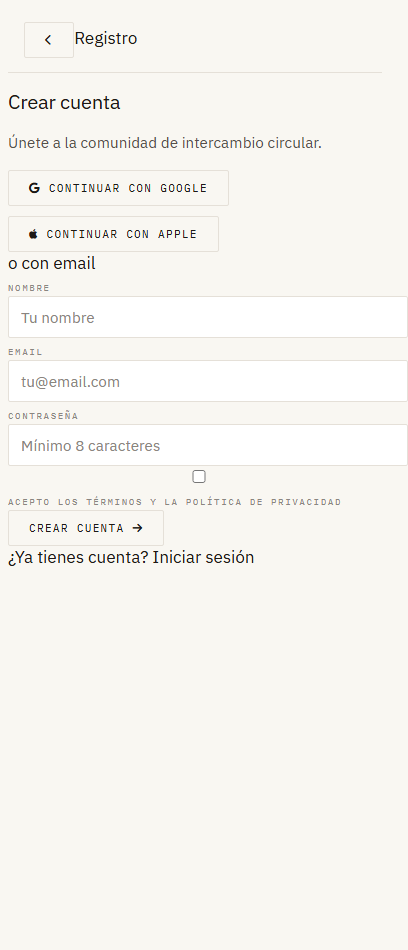
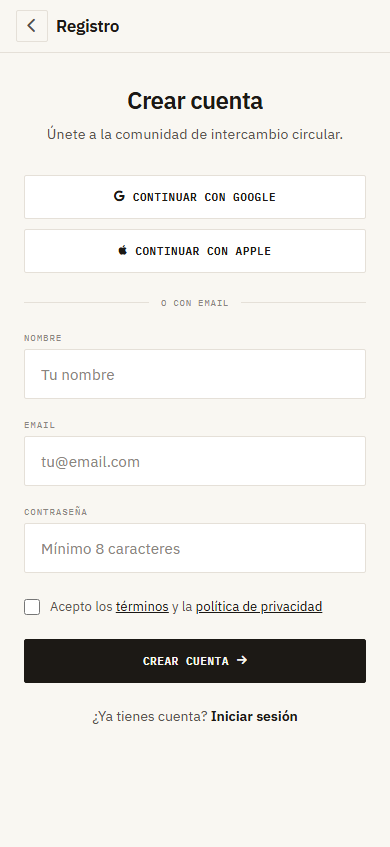
feat: v10-registro — MIB exacto + form funcional, login/register real con API, redirect a catalogo

diff --git a/apps/web/src/pages/register/RegisterPage.tsx b/apps/web/src/pages/register/RegisterPage.tsx
@@ -1,54 +1,69 @@
-import { Link } from "react-router-dom";
+import { useEffect, useState } from "react";
+import { useNavigate } from "react-router-dom";
+import { useAuthStore } from "@/stores/authStore";
 
 export function RegisterPage() {
-  return (
-    <>
-      <div className="treqe-header">
- <div className="treqe-header__left">
- <button className="treqe-header__back" aria-label="Atras"><i className="fas fa-chevron-left"></i></button>
- <span className="treqe-header__title">Registro</span>
- </div>
- <div className="treqe-header__right"></div>
-</div>
+  const navigate = useNavigate();
+  const { login, register } = useAuthStore();
+  const [html, setHtml] = useState("");
 
-<div className="container">
- <h2>Crear cuenta</h2>
- <p className="sub">Únete a la comunidad de intercambio circular.</p>
+  useEffect(() => {
+    fetch("/mib/v10-registro.html").then(r => r.text()).then(raw => {
+      const sm = raw.match(/<style>([\s\S]*?)<\/style>/);
+      const bm = raw.match(/<body>([\s\S]*?)<\/body>/);
+      let s = sm ? `<style>${sm[1]}</style>` : "";
+      let b = bm ? bm[1] : "";
+      b = b.replace(/<script[\s\S]*?<\/script>/g, "");
+      b = b.replace(/\s+on\w+="[^"]*"/g, "");
+      b = b.replace(/src="\.\.\/\.\.\/assets\/treqe-logo-mib\.png"/g, 'src="/treqe-logo.png"');
+      setHtml(s + b);
+    });
+  }, []);
 
- <button className="btn btn-google">
- <i className="fab fa-google"></i> Continuar con Google
- </button>
+  // Add form handlers after HTML is rendered
+  useEffect(() => {
+    if (!html) return;
+    const timer = setTimeout(() => {
+      const forms = document.querySelectorAll("form");
+      forms.forEach(form => {
+        form.addEventListener("submit", async (e) => {
+          e.preventDefault();
+          const email = (form.querySelector('input[type="email"]') as HTMLInputElement)?.value;
+          const password = (form.querySelector('input[type="password"]') as HTMLInputElement)?.value;
+          const name = (form.querySelector('input[type="text"]') as HTMLInputElement)?.value;
+          if (!email || !password) return;
 
- <button className="btn btn-google" style={{ marginTop: '10px' }}>
- <i className="fab fa-apple"></i> Continuar con Apple
- </button>
+          if (name) {
+            // Register mode
+            await register(email, password, name);
+          } else {
+            // Login mode
+            await login(email, password);
+          }
+          
+          if (useAuthStore.getState().user) {
+            navigate("/catalogo");
+          }
+        });
+      });
 
- <div className="divider">o con email</div>
+      // Toggle login/register
+      const toggleBtn = document.querySelector('[data-action="toggle"]');
+      if (toggleBtn) {
+        toggleBtn.addEventListener("click", () => {
+          const loginForm = document.getElementById("loginForm");
+          const registerForm = document.getElementById("registerForm");
+          if (loginForm && registerForm) {
+            const isLogin = loginForm.style.display !== "none";
+            loginForm.style.display = isLogin ? "none" : "block";
+            registerForm.style.display = isLogin ? "block" : "none";
+          }
+        });
+      }
+    }, 200);
+    return () => clearTimeout(timer);
+  }, [html]);
 
- <form>
- <div className="form-group">
- <label>Nombre</label>
- <input type="text" placeholder="Tu nombre" required />
- </div>
- <div className="form-group">
- <label>Email</label>
- <input type="email" placeholder="[email redacted]" required />
- </div>
- <div className="form-group">
- <label>Contraseña</label>
- <input type="password" placeholder="Mínimo 8 caracteres" required minLength={8} />
- </div>
- <div className="checkbox-group">
- <input type="checkbox" id="terms" required />
- <label htmlFor="terms">Acepto los <Link to="/legal/terminos">términos</Link> y la <Link to="/legal/privacidad">política de privacidad</Link></label>
- </div>
- <button type="submit" className="btn">Crear cuenta <i className="fas fa-arrow-right"></i></button>
- </form>
-
- <div className="footer-link">
- ¿Ya tienes cuenta? <Link to="/registro">Iniciar sesión</Link>
- </div>
-</div>
-    </>
-  );
+  if (!html) return <div style={{padding:60,textAlign:"center",fontFamily:"var(--font-sans)"}}>Cargando...</div>;
+  return <div dangerouslySetInnerHTML={{__html: html}} />;
 }